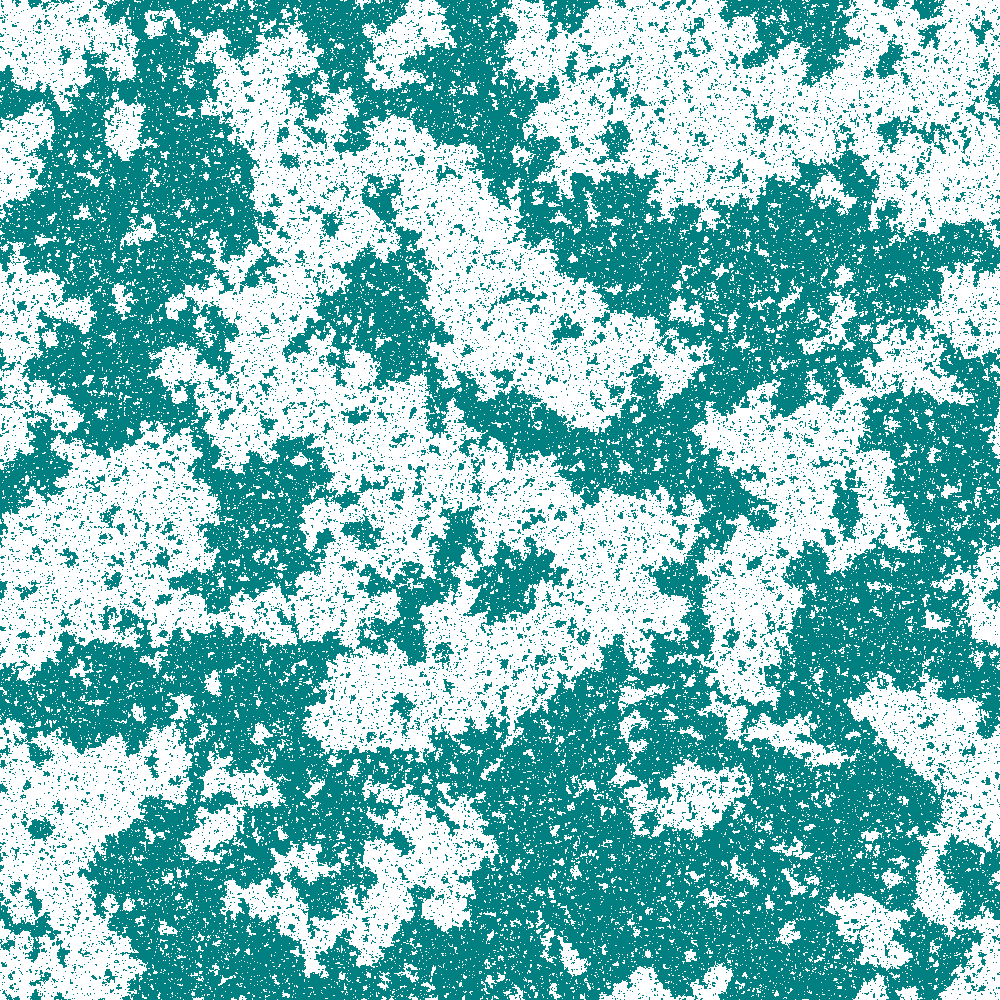
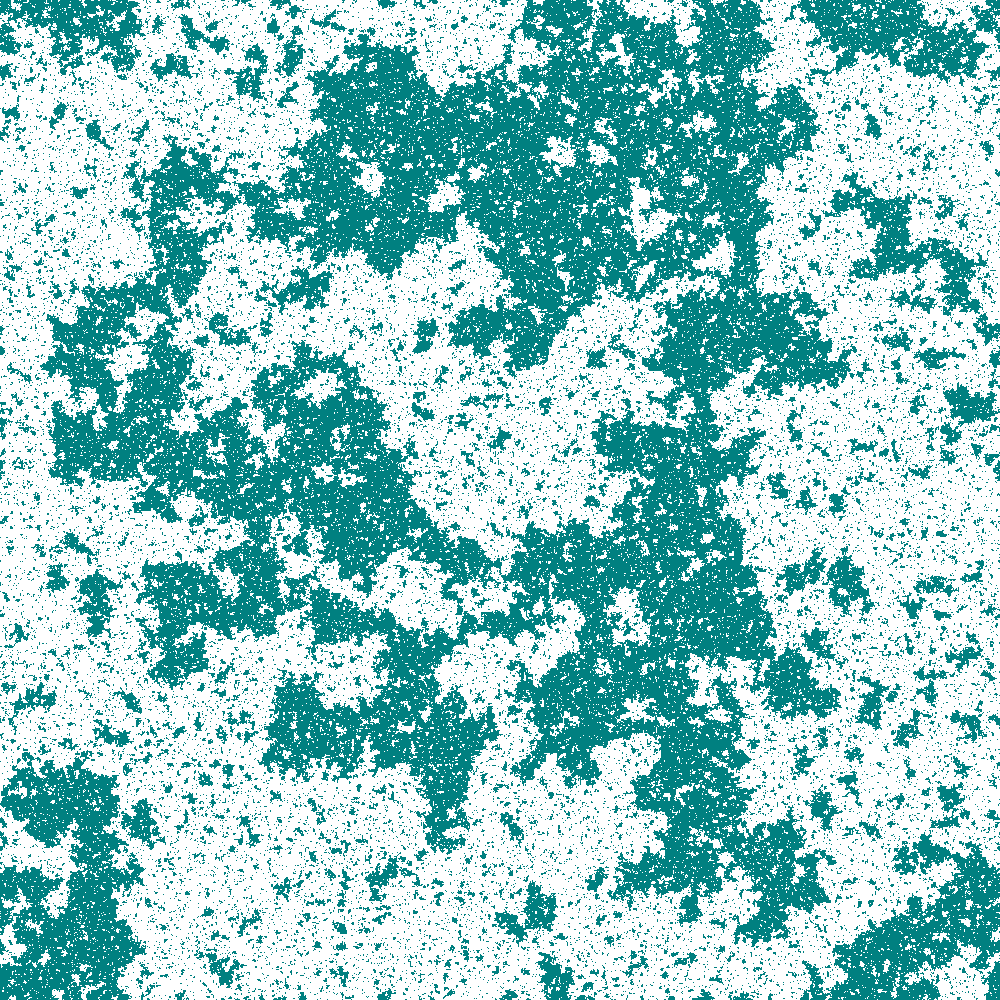
Very slight update to the for loop deciding random starting state. Made it into an iterator.

diff --git a/src/main.rs b/src/main.rs
@@ -5,14 +5,14 @@ use rand_xoshiro::Xoshiro256Plus;
 use std::time::Instant;
 
 /*
-This code is largely based off of an implementation I fist saw written in
-julia's Ising2D.jl written by genkuroki: https://github.com/genkuroki/Ising2D.jl/blob/master/src/Ising2D.jl
-I wanted to see how a fairly naive port to rust would do as most the work
-is done is "low level" ways using arrays and for loops. The performance of
-this rust code is lackluster, taking twice the time of the julia implementation.
-My rewritten stripped down julia implementation is included along side this one
-for anyone iterested in testing for the comparison.
-*/
+   This code is largely based off of an implementation I fist saw written in
+   julia's Ising2D.jl written by genkuroki: https://github.com/genkuroki/Ising2D.jl/blob/master/src/Ising2D.jl
+   I wanted to see how a fairly naive port to rust would do as most the work
+   is done is "low level" ways using arrays and for loops. The performance of
+   this rust code is lackluster, taking twice the time of the julia implementation.
+   My rewritten stripped down julia implementation is included along side this one
+   for anyone iterested in testing for the comparison.
+   */
 
 fn main() {
     let t = 2. / f64::ln(1. + 2f64.sqrt()); //The critical temperature of a 2D Ising model.
@@ -20,10 +20,10 @@ fn main() {
     run(true, t);
 }
 /*
-List of constants that will apply for the rest of the program
-J is the coupling constant of the interation, it can be a float
-in principle, but I will use 1 for the classic ferromagnetic case.
-*/
+   List of constants that will apply for the rest of the program
+   J is the coupling constant of the interation, it can be a float
+   in principle, but I will use 1 for the classic ferromagnetic case.
+   */
 const J: i8 = 1;
 const STEPS: usize = 1000;
 const SIDE: usize = 1000; // Making a default for square arrays
@@ -33,41 +33,43 @@ const NCOLUMNS: usize = SIDE;
 const LEN: usize = NROWS * NCOLUMNS;
 
 /*
-Defining a function to run the simulation inside of main. Order
-determines if it is a "hot" or "cold" initial state.
-*/
+   Defining a function to run the simulation inside of main. Order
+   determines if it is a "hot" or "cold" initial state.
+   */
 fn run(order: bool, t: f64) {
     /*
-    initialize the array we will be using through the rest of the program.
-    The rng is needed for determining if the state flips or not and for
-    randomizing the initial state when order is passed as true.
-    */
+       initialize the array we will be using through the rest of the program.
+       The rng is needed for determining if the state flips or not and for
+       randomizing the initial state when order is passed as true.
+       */
     let mut arr = [0i8; LEN];
     let mut rng = Xoshiro256Plus::from_entropy();
 
     let beta = 1. / t; // beta is a convenience variable for inverse Temp.
 
     /*
-    When order is true the array is randomized between up (1) and down (-1)
-    spin states. Otherwise the spins all point up.
-    */
+       When order is true the array is randomized between up (1) and down (-1)
+       spin states. Otherwise the spins all point up.
+       */
+
     if order {
-        for i in 0..LEN {
-            arr[i] = if rng.gen_bool(0.5) { 1i8 } else { -1i8 }
+        for site in arr.iter_mut() {
+            *site = if rng.gen_bool(0.5) { 1i8 } else { -1i8 }
         }
     } else {
         arr = [1i8; LEN]
     }
+
     // Show the image before the interations for comparison.
     plot(&arr, String::from("before.png").as_str()).unwrap();
 
     let now = Instant::now();
     /*
-    Create a static array of probabilites based on the local energy of a given
-    site. This can be done because the local energy is one of a discrete number
-    of possible outcomes and enables one to check the energy of the site as
-    opposed to the whole lattice when determining whether or not to flip the spin.
-    */
+       Create a static array of probabilites based on the local energy of a given
+       site. This can be done because the local energy is one of a discrete number
+       of possible outcomes and enables one to check the energy of the site as
+       opposed to the whole lattice when determining whether or not to flip the spin.
+       */
     // We move it to u64 on suggestion as comparing u64s is faster than floats.
     let mut probs = [0u64; 9];
     let mut inc: f64 = -4.0;
@@ -78,18 +80,18 @@ fn run(order: bool, t: f64) {
     }
 
     /*
-    This is the major loop of the model. STEPS is the number of times we iterate through
-    the lattice trying to flip each spin. j is the iterating over the "columns"
-    of the array, and i is iterating over the "rows", though the array is technically
-    1D. First the energy of each site is calculated based on the Ising model's
-    hamiltonian, h = site * (nn + ss + ee + ww), where h is the energy of the site,
-    site is the spin of the value of the site in question, and nn, ss, ee, ww are
-    the site above, below, right and left of the current position respectively.
-    I'm using wrapping boundary conditions to mitigate edge effects, meaning I
-    am treating the right edge of the 2D array as touching the left edge, and
-    the top wraps to the bottom. If the energy is lowered by fliping the site's spin we
-    do so, otherwise we flip the spin with probability exp(-2 * energy at the site * beta).
-    */
+       This is the major loop of the model. STEPS is the number of times we iterate through
+       the lattice trying to flip each spin. j is the iterating over the "columns"
+       of the array, and i is iterating over the "rows", though the array is technically
+       1D. First the energy of each site is calculated based on the Ising model's
+       hamiltonian, h = site * (nn + ss + ee + ww), where h is the energy of the site,
+       site is the spin of the value of the site in question, and nn, ss, ee, ww are
+       the site above, below, right and left of the current position respectively.
+       I'm using wrapping boundary conditions to mitigate edge effects, meaning I
+       am treating the right edge of the 2D array as touching the left edge, and
+       the top wraps to the bottom. If the energy is lowered by fliping the site's spin we
+       do so, otherwise we flip the spin with probability exp(-2 * energy at the site * beta).
+       */
 
     for _ in 0..STEPS {
         for i in 0..NROWS {
@@ -139,21 +141,24 @@ fn run(order: bool, t: f64) {
 }
 
 /*
-Defining a basic plotting function for the array as a png. This maps the array to a 2D
-histogram where an up spin (1) is white, and a down spin (-1) is teal.
-*/
+   Defining a basic plotting function for the array as a png. This maps the array to a 2D
+   histogram where an up spin (1) is white, and a down spin (-1) is teal.
+   */
 fn plot(&arr: &[i8; LEN], name: &str) -> Result<(), Box<dyn std::error::Error>> {
     let root_drawing_area = BitMapBackend::new(name, (NPIXELS, NPIXELS)).into_drawing_area();
 
     let child_drawing_areas = root_drawing_area.split_evenly((NROWS, NCOLUMNS));
+
+    for (area, i) in child_drawing_areas.into_iter().zip(0..LEN) {
+        if arr[i] == 1i8 {
+            area.fill(&WHITE)?;
+        } else {
+            let teal = RGBColor(0u8, 128u8, 128u8);
+            area.fill(&teal)?;
+        }
+    }
+
     Ok(
-        for (area, i) in child_drawing_areas.into_iter().zip(0..LEN) {
-            if arr[i] == 1i8 {
-                area.fill(&WHITE)?;
-            } else {
-                let teal = RGBColor(0u8, 128u8, 128u8);
-                area.fill(&teal)?;
-            }
-        },
-    )
+        ()
+      )
 }
